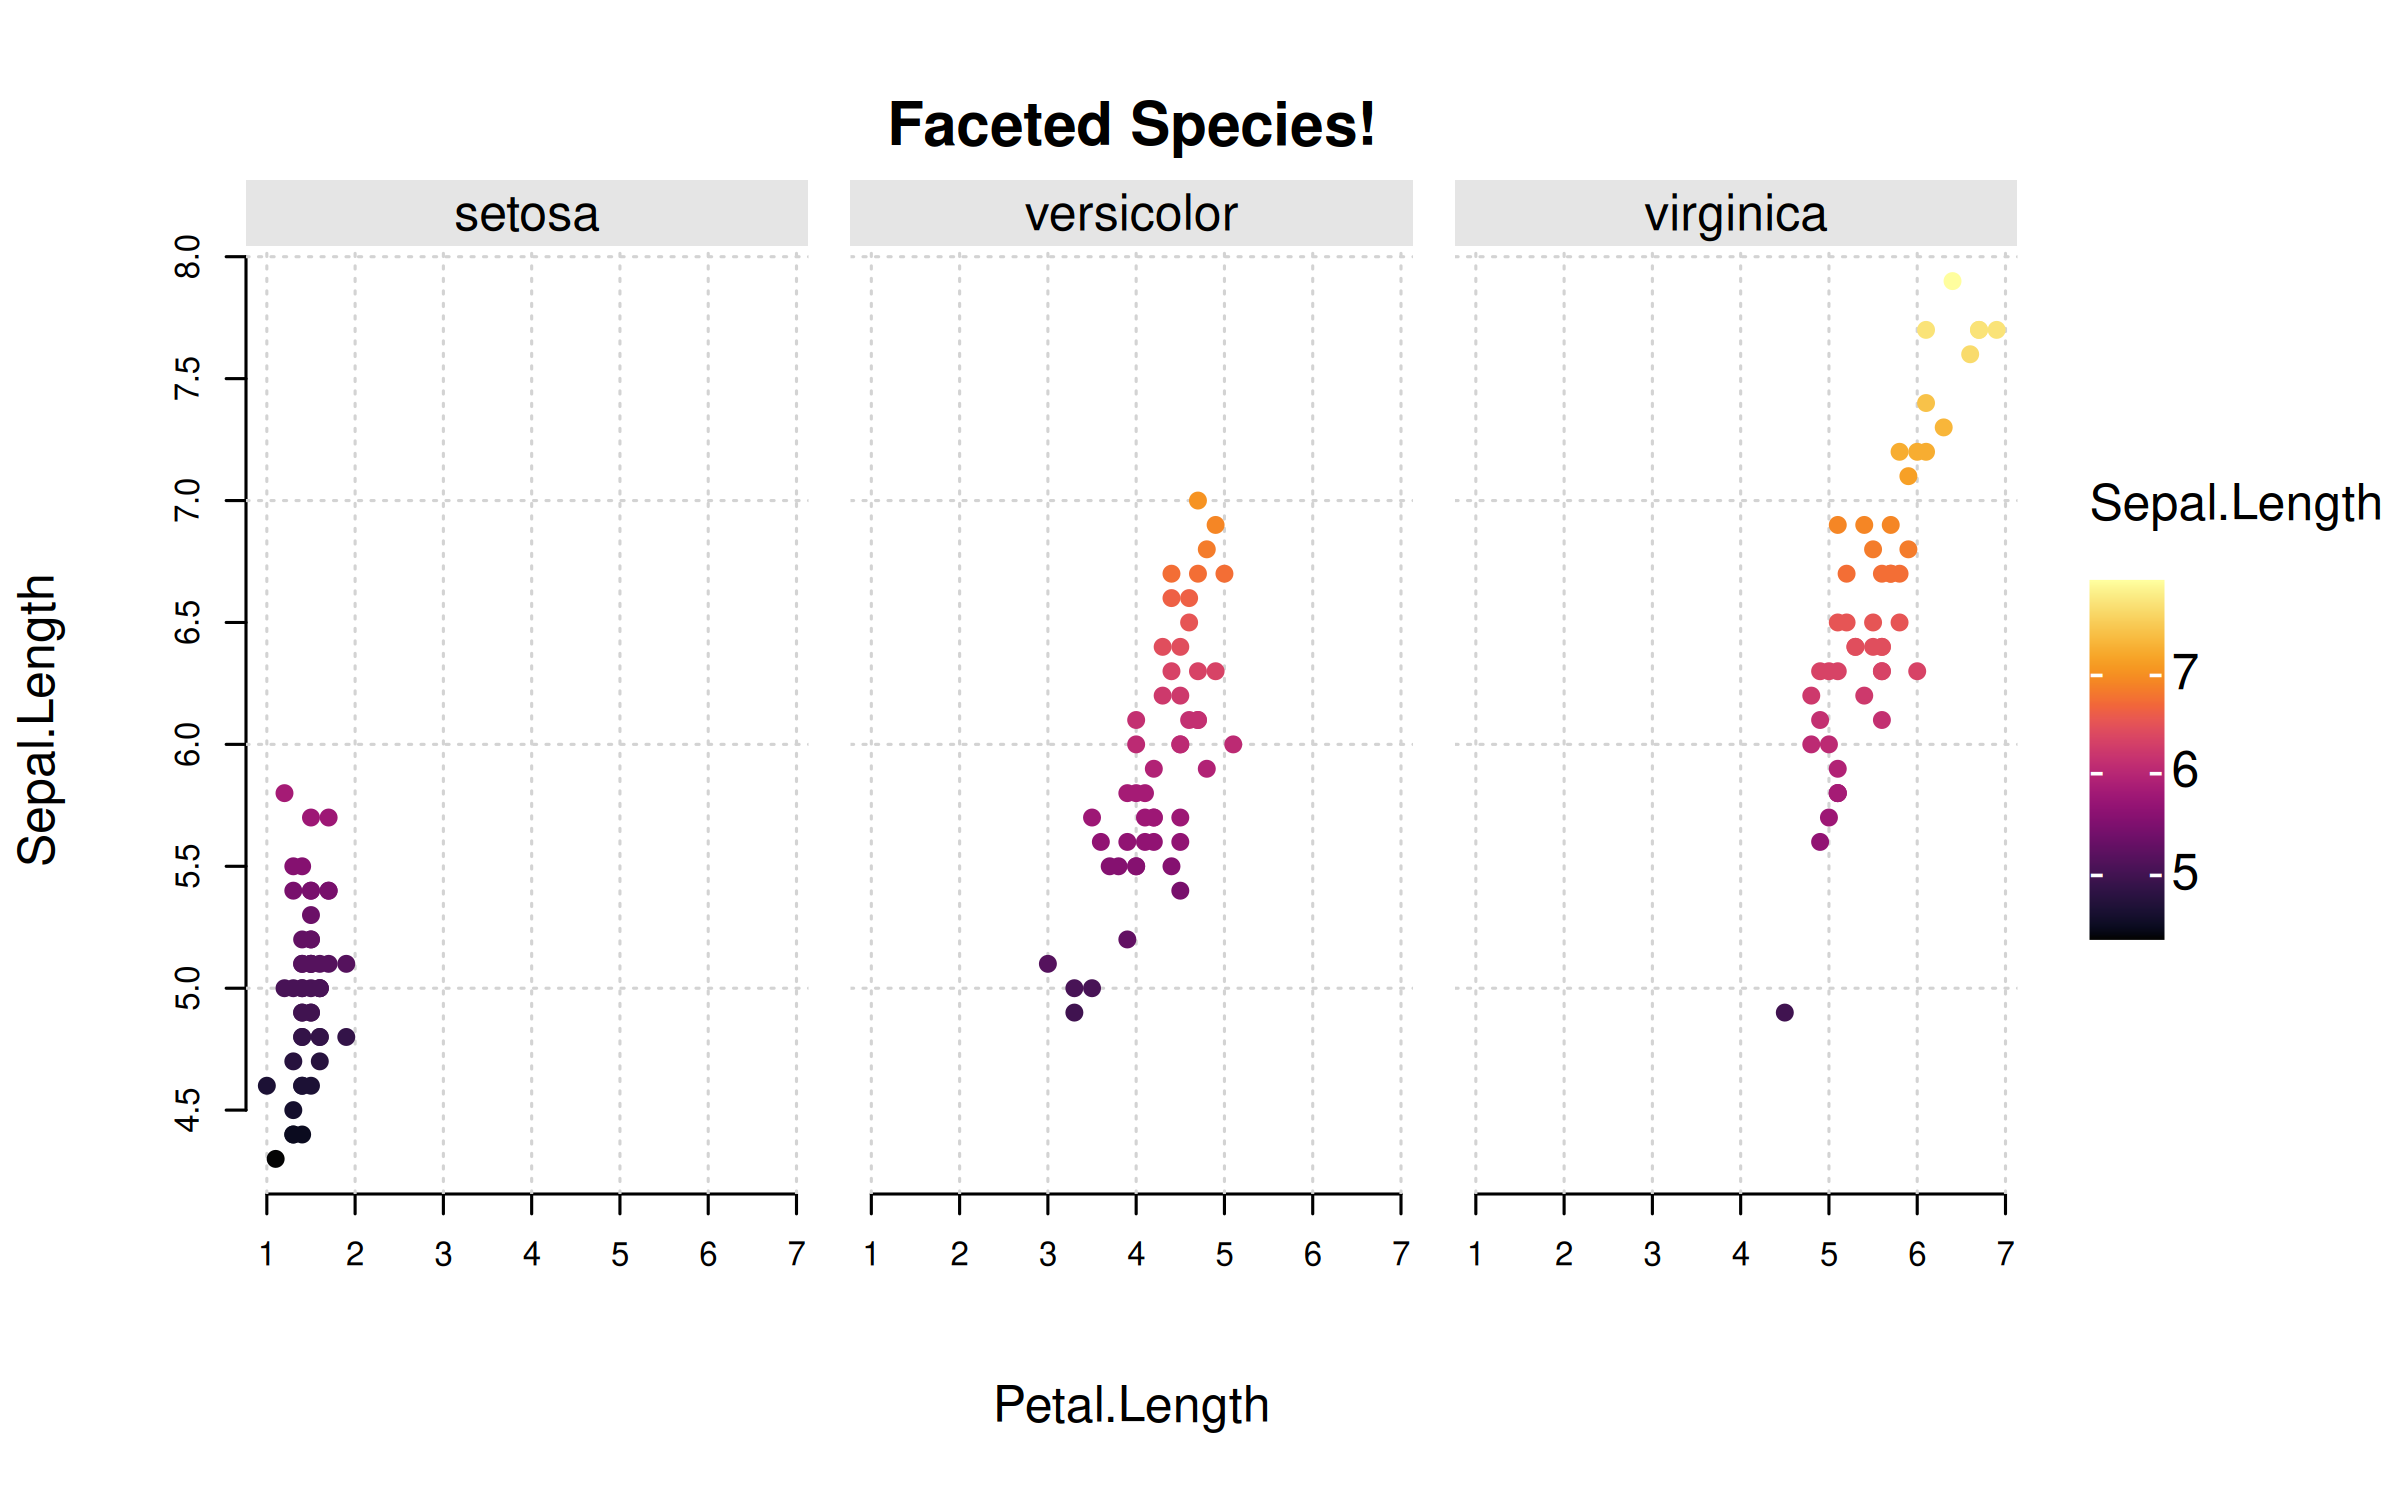
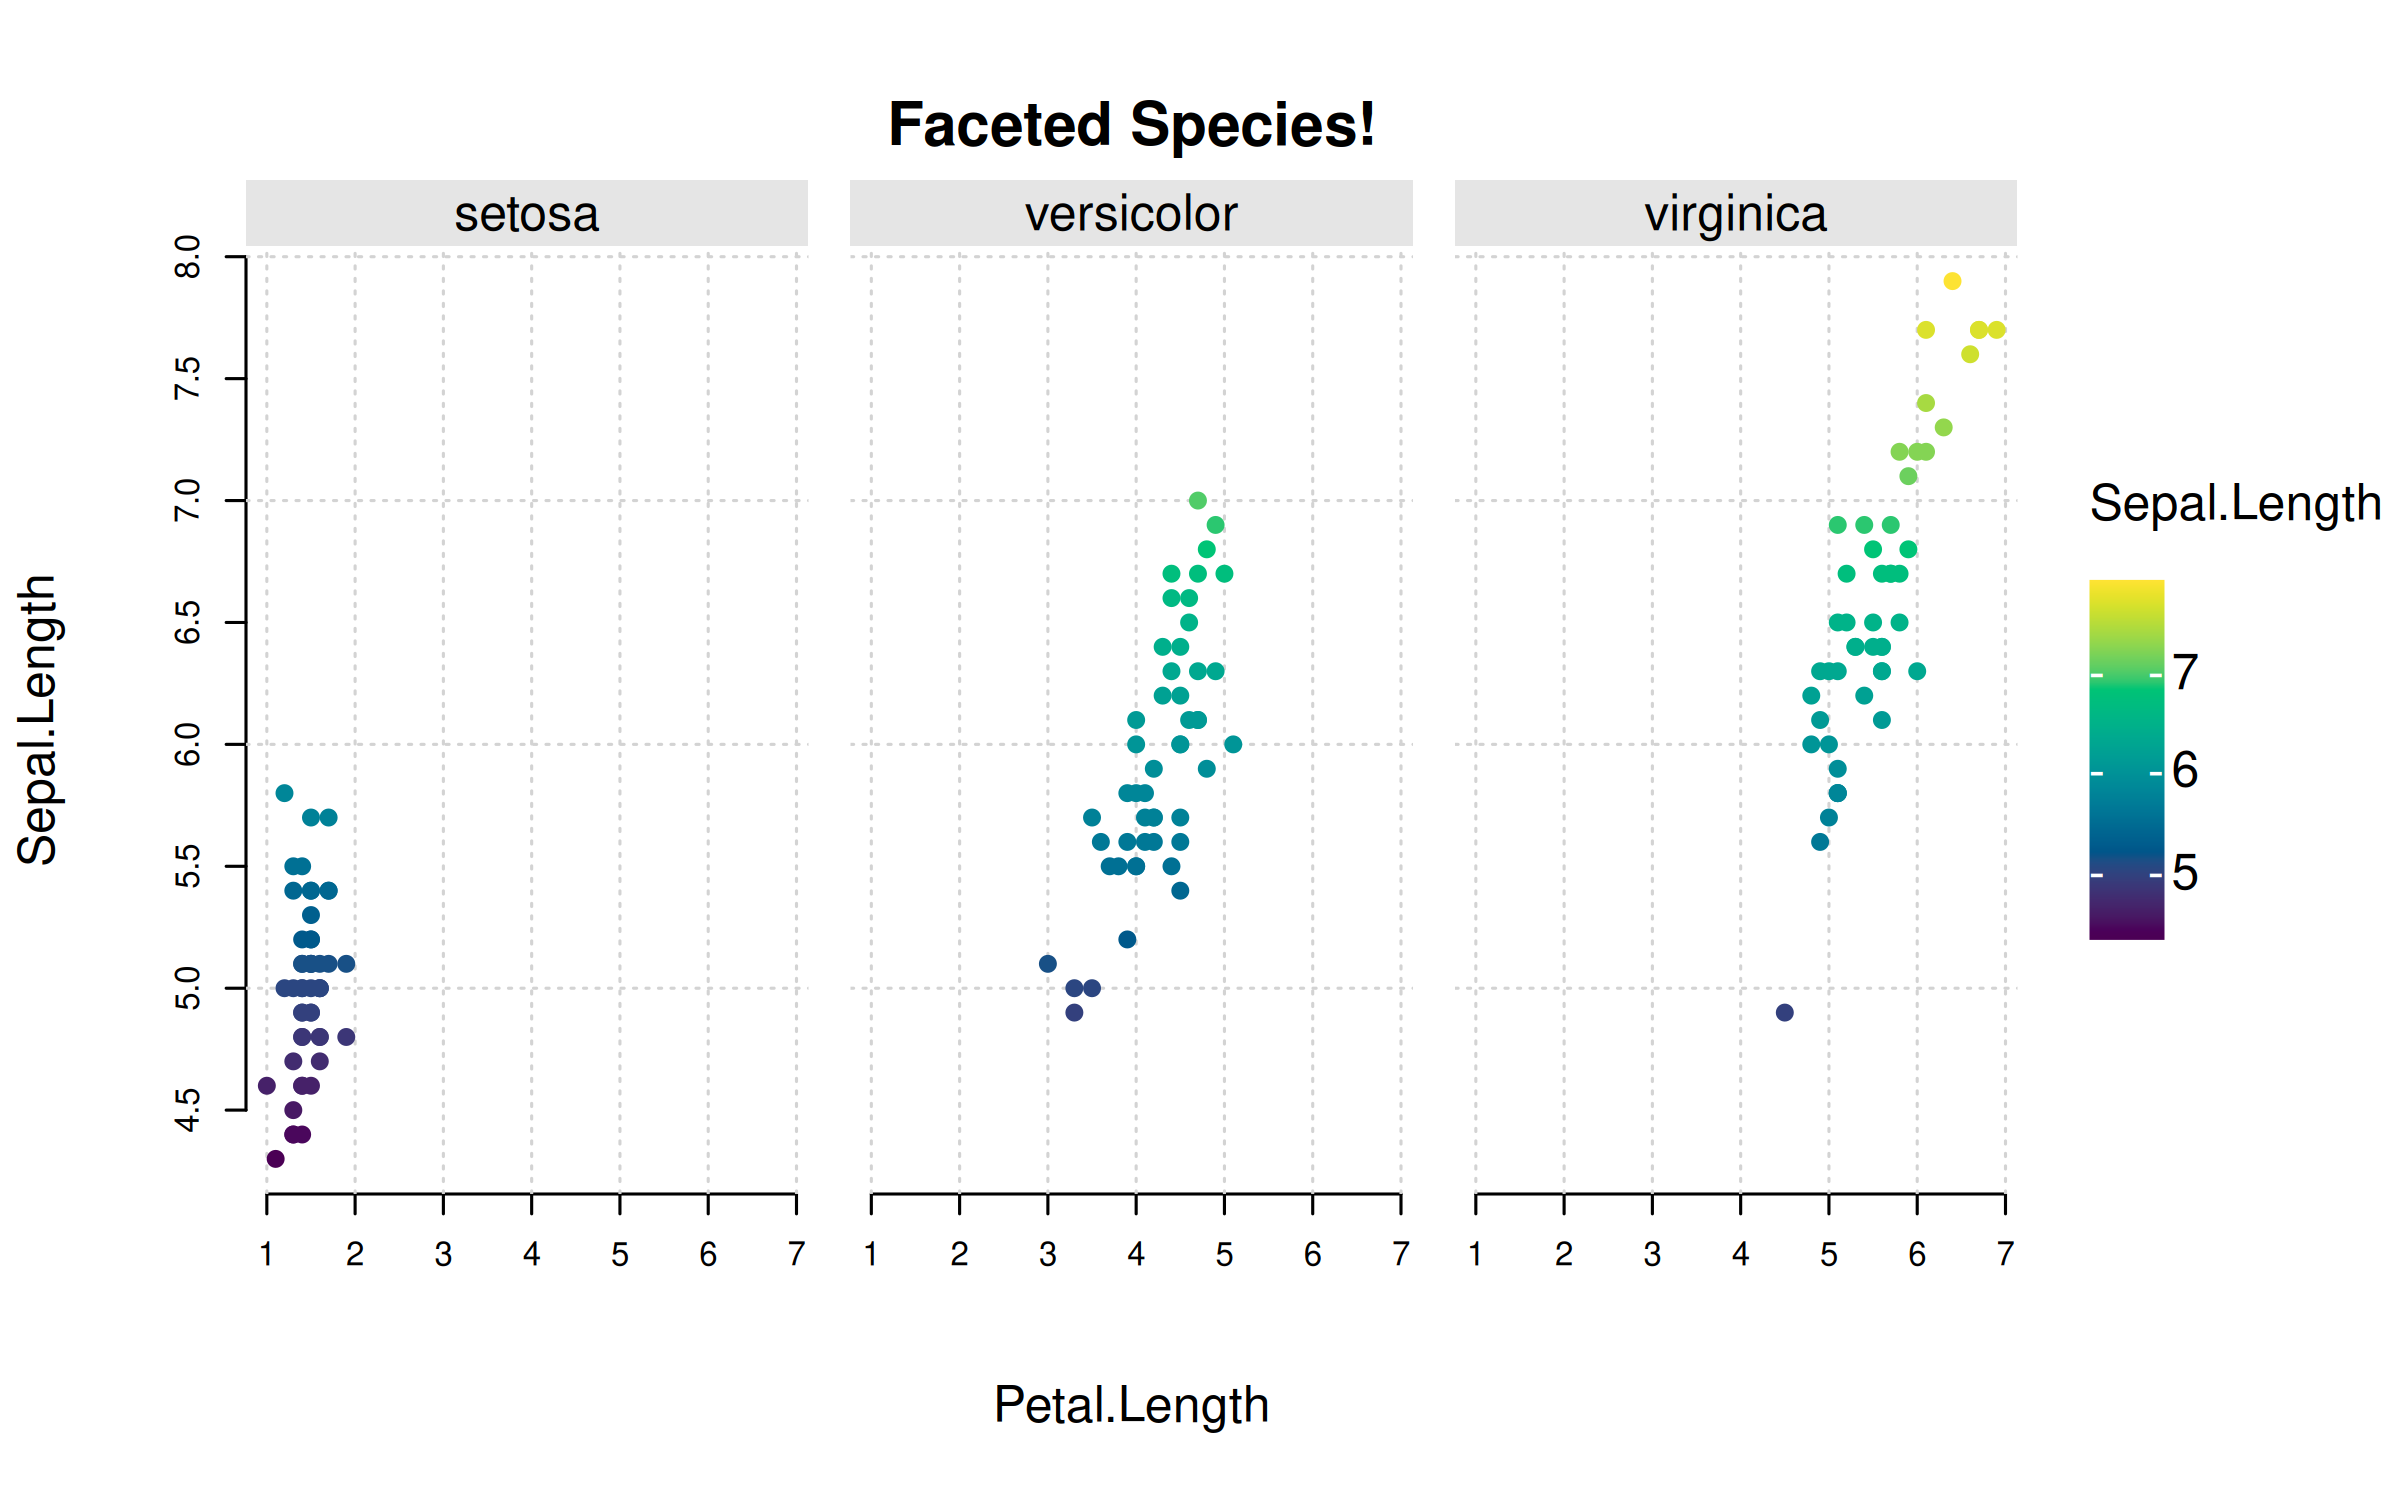
Re-run README examples

diff --git a/README.md b/README.md
@@ -123,9 +123,8 @@ facet layout:
 ``` r
 plt(
   Sepal.Length ~ Petal.Length | Sepal.Length, data = iris,
-  facet = ~Species,
-  facet.args = list(bg = "grey90"),
-  palette = "inferno", pch = 19,
+  facet = ~Species, facet.args = list(bg = "grey90"),
+  pch = 19,
   main = "Faceted Species!",
   grid = TRUE, frame = FALSE
 )
